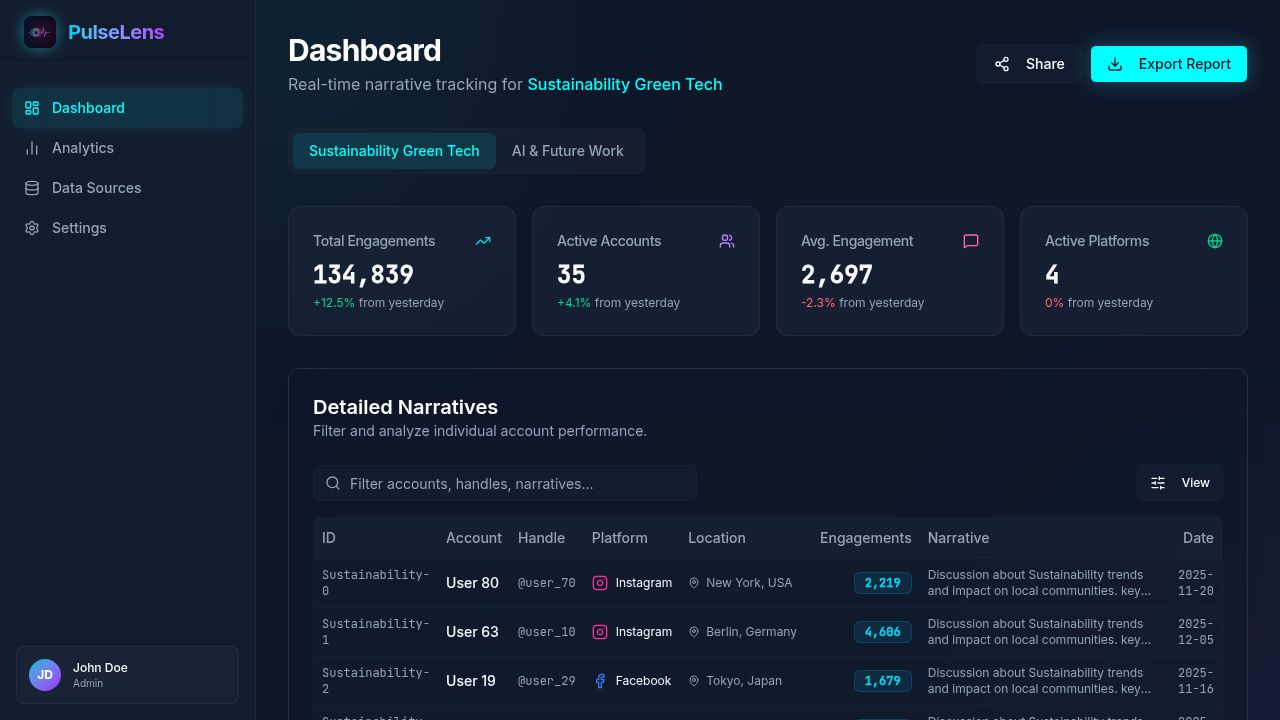
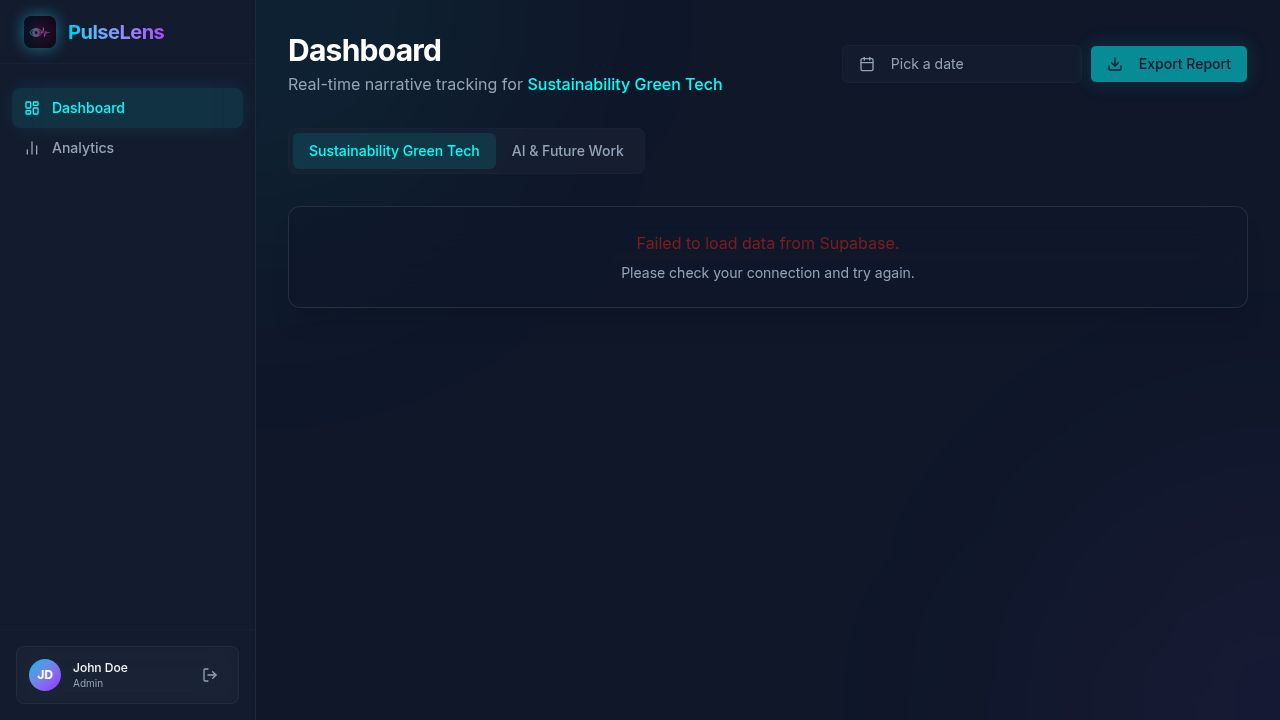
Update navigation and database table names for improved functionality
Fixes navigation link rendering by replacing `<a>` tags with `div` elements within the Link component and updates Supabase table names in `use-social-data.ts` to lowercase `sustainability` and `ai_technology` for correct data fetching.

Replit-Commit-Author: Agent
Replit-Commit-Session-Id: 181445d1-54f5-418c-a358-dc6ddc652d09
Replit-Commit-Checkpoint-Type: full_checkpoint
Replit-Commit-Event-Id: 309956b5-95ea-4a44-967a-7f39677cf3ed
Replit-Commit-Screenshot-Url: https://storage.googleapis.com/screenshot-production-us-central1/3f296f99-be66-4818-bdab-03ee0154f08b/181445d1-54f5-418c-a358-dc6ddc652d09/ghxEyPu
Replit-Helium-Checkpoint-Created: true

diff --git a/client/src/components/layout.tsx b/client/src/components/layout.tsx
@@ -39,7 +39,7 @@ export default function Layout({ children }: LayoutProps) {
             const isActive = location === item.href;
             return (
               <Link key={item.href} href={item.href}>
-                <a
+                <div
                   className={cn(
                     "flex items-center gap-3 px-3 py-2.5 rounded-lg text-sm font-medium transition-all duration-200 cursor-pointer",
                     isActive
@@ -49,7 +49,7 @@ export default function Layout({ children }: LayoutProps) {
                 >
                   <item.icon className={cn("w-4 h-4", isActive ? "text-primary" : "text-muted-foreground")} />
                   {item.label}
-                </a>
+                </div>
               </Link>
             );
           })}

diff --git a/client/src/hooks/use-social-data.ts b/client/src/hooks/use-social-data.ts
@@ -3,11 +3,9 @@ import { supabase } from "@/lib/supabase";
 import { SocialPost } from "@/lib/mockData";
 
 // Map Supabase table names to topic IDs
-// We are guessing the table names based on the topics. 
-// In a real app, these would be dynamic or strictly defined.
 const TABLE_MAPPING: Record<string, string> = {
-  "topic1": "Sustainability",
-  "topic2": "AI Technology"
+  "topic1": "sustainability", 
+  "topic2": "ai_technology"   
 };
 
 export function useSocialData(topicId: string) {
